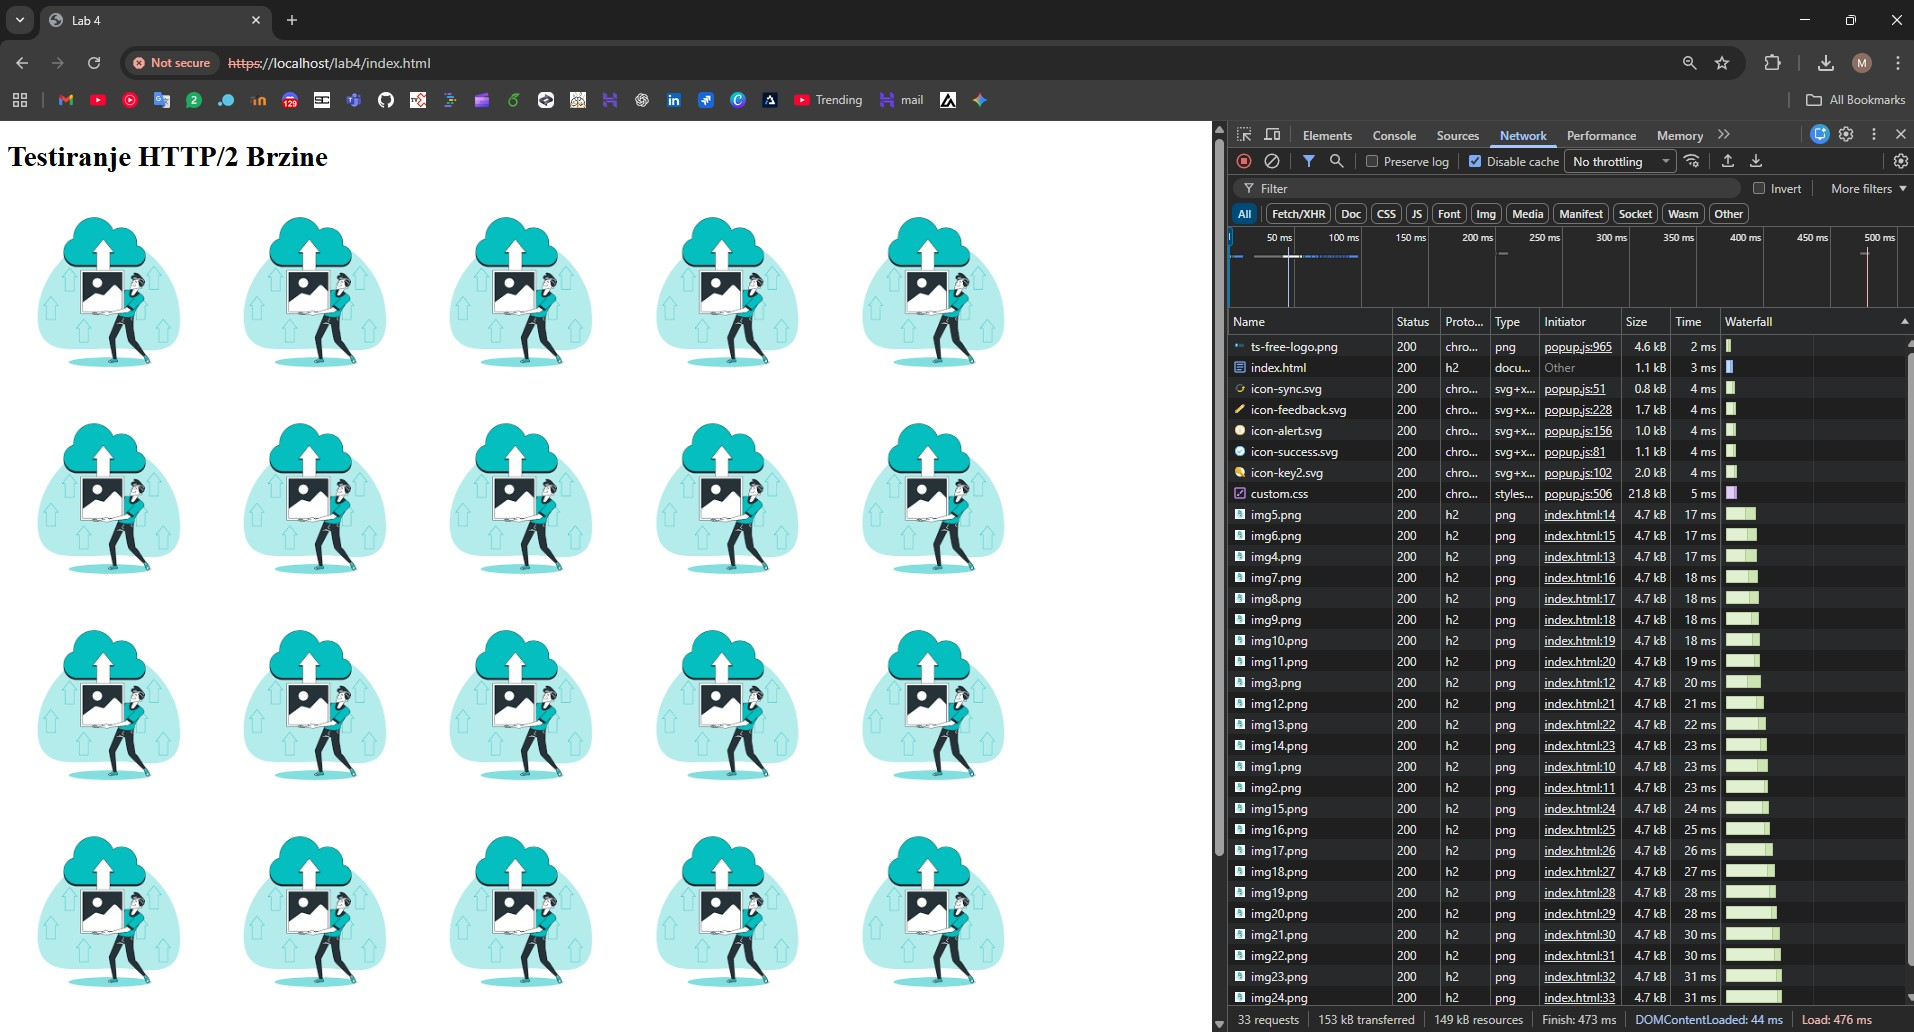
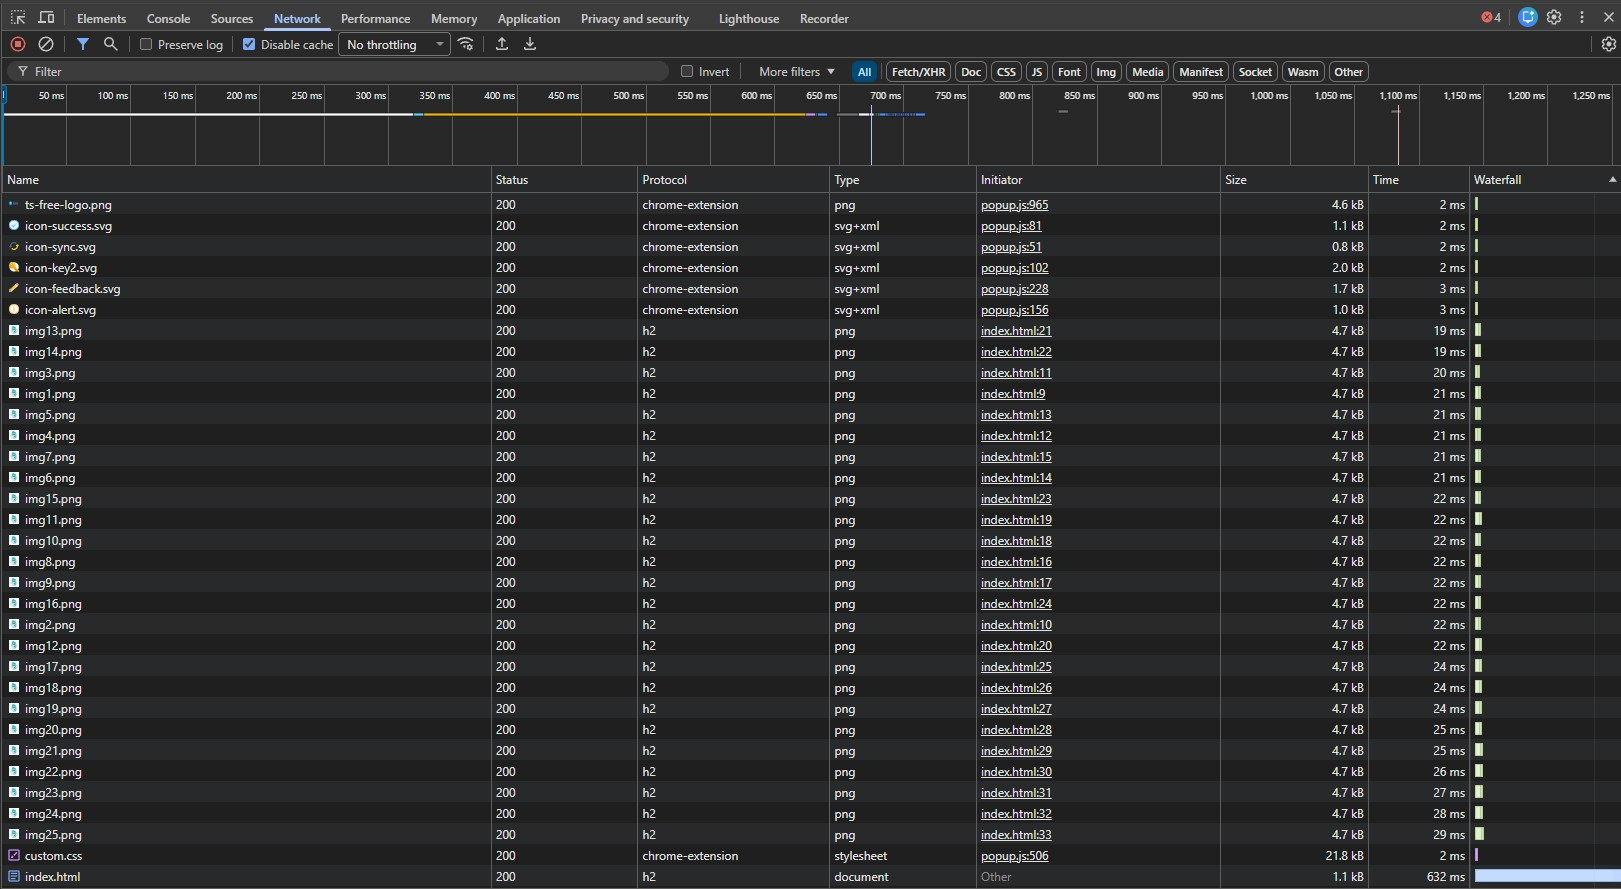
all upload

diff --git a/html/lab4/index.html b/html/lab4/index.html
@@ -5,7 +5,6 @@
     <title>Lab 4</title>
 </head>
 <body>
-    <h1>Testiranje HTTP/2 Brzine</h1>
     <div class="gallery">
         <img src="img1.png">
         <img src="img2.png">
